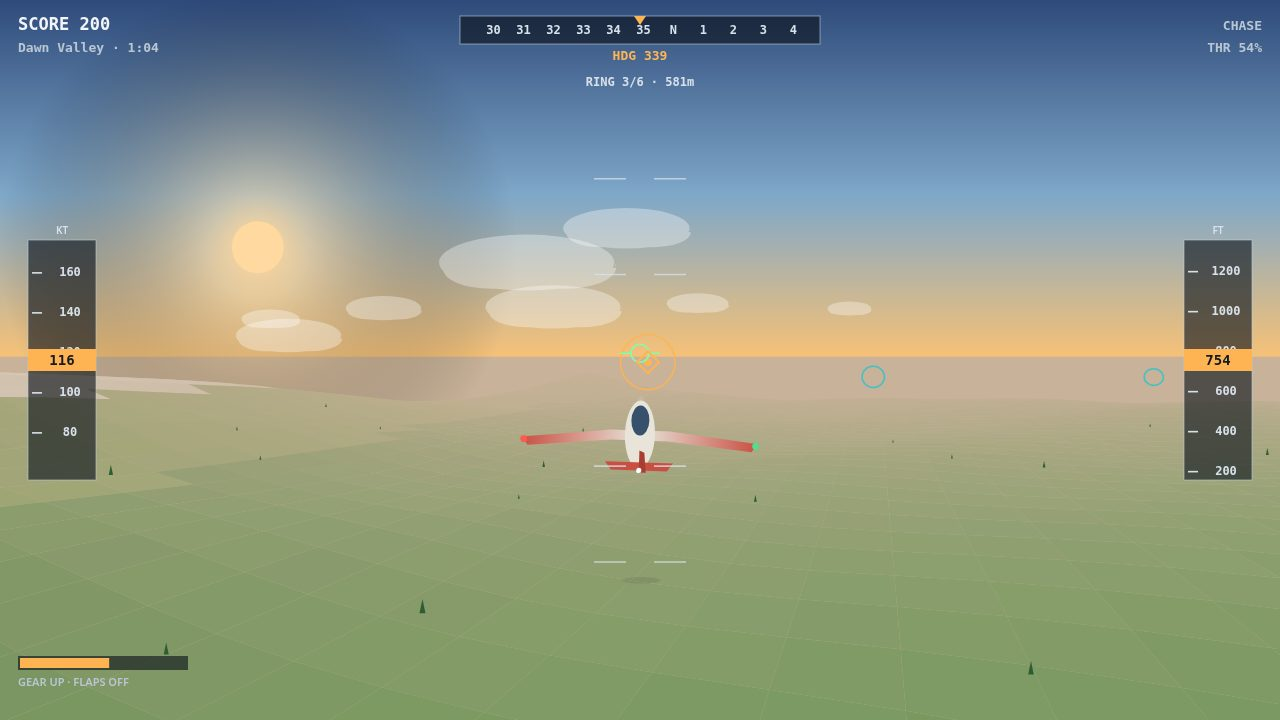
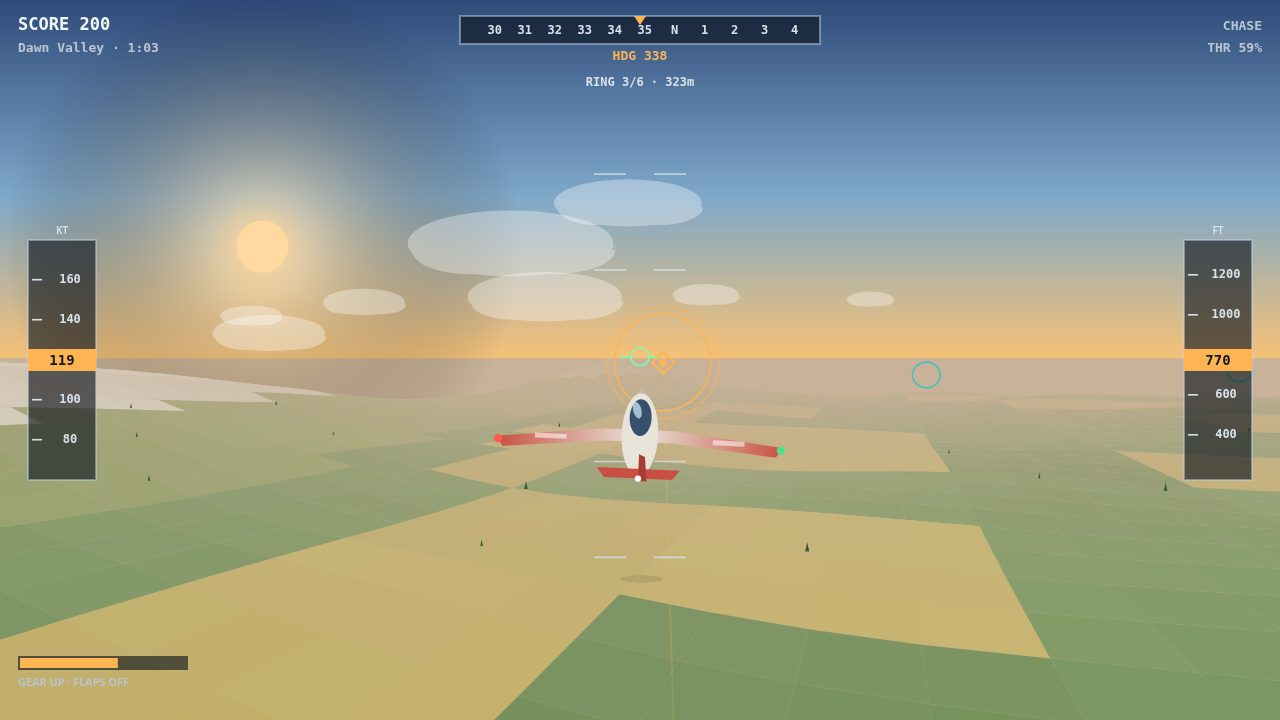
Polish visuals: farmland terrain, ring halo and pillar, closer screenshot staging

diff --git a/game/src/render.js b/game/src/render.js
@@ -129,14 +129,23 @@ function drawSky(ctx, pal, cam) {
   }
 }
 
-function terrainColor(pal, h, slope, depth) {
+function terrainColor(pal, h, slope, depth, gx = 0, gz = 0) {
   let base;
   if (h < WATER_LEVEL) base = pal.water;
   else if (h < WATER_LEVEL + 2.5) base = '#c2b280';
-  else if (h > 205) base = '#e8e4da';
+  else if (h > 185) base = '#eef0ea';
   else if (slope > 0.55) base = pal.rock;
   else base = h > 90 ? pal.grassHigh : pal.grass;
-  const lit = shade(base, clamp(1.06 - slope * 0.35, 0.62, 1.12));
+  // Farmland patches on the flat valley floor: 340 m blocks alternate
+  // between green and golden, so the ground reads as fields from the air.
+  let patch = 1;
+  if (h >= WATER_LEVEL && h < 70 && slope < 0.2) {
+    const bx = Math.floor(gx / 340), bz = Math.floor(gz / 340);
+    const hash = Math.abs(Math.sin(bx * 127.1 + bz * 311.7) * 43758.5453) % 1;
+    if (hash > 0.62) base = '#b3a355';
+    patch = 0.93 + hash * 0.14;
+  }
+  const lit = shade(base, clamp((1.06 - slope * 0.35) * patch, 0.6, 1.16));
   const fogT = clamp(1 - Math.exp(-depth / 1200), 0, 0.97);
   // mix() needs hex; convert the shaded rgb back through a canvas-free path:
   return fogT < 0.02 ? lit : mixRgb(lit, pal.fog, fogT);
@@ -171,11 +180,11 @@ function drawTerrain(ctx, world, cam) {
       if (ccx * cam.f.x + ccy * cam.f.y + ccz * cam.f.z < 2) continue;
       const depth = (p00.d + p11.d) / 2;
       const slope = Math.max(Math.abs(h10 - h00), Math.abs(h01 - h00)) / step;
-      quads.push({ pts: [p00, p10, p11, p01], depth, h: (h00 + h11) / 2, slope });
+      quads.push({ pts: [p00, p10, p11, p01], depth, h: (h00 + h11) / 2, slope, gx, gz });
     }
   }
   quads.sort((a, b) => b.depth - a.depth);
-  for (const q of quads) poly(ctx, q.pts, terrainColor(pal, q.h, q.slope, q.depth));
+  for (const q of quads) poly(ctx, q.pts, terrainColor(pal, q.h, q.slope, q.depth, q.gx, q.gz));
 }
 
 function drawRunway(ctx, world, cam) {
@@ -268,10 +277,25 @@ function drawRings(ctx, world, cam) {
     ctx.lineWidth = Math.max(1.2, 110 / pts[0].d);
     ctx.stroke();
     if (isNext) {
-      const c = project(cam, ring.x, ring.y, ring.z);
-      if (c) {
+      // A soft light pillar to the ground marks the target from far off,
+      // and a pulsing halo draws the eye to the ring itself.
+      const top = project(cam, ring.x, ring.y, ring.z);
+      const foot = project(cam, ring.x, terrainHeight(ring.x, ring.z), ring.z);
+      if (top && foot) {
         ctx.beginPath();
-        ctx.arc(c.x, c.y, 4, 0, Math.PI * 2);
+        ctx.moveTo(top.x, top.y);
+        ctx.lineTo(foot.x, foot.y);
+        ctx.strokeStyle = colour + '30';
+        ctx.lineWidth = Math.max(2, 300 / top.d);
+        ctx.stroke();
+        const pulse = 1 + 0.18 * Math.sin(world.time * 3.2);
+        ctx.beginPath();
+        ctx.arc(top.x, top.y, Math.max(3, (RING.radius * FOCAL / top.d) * pulse), 0, Math.PI * 2);
+        ctx.strokeStyle = colour + '66';
+        ctx.lineWidth = 2;
+        ctx.stroke();
+        ctx.beginPath();
+        ctx.arc(top.x, top.y, 4, 0, Math.PI * 2);
         ctx.fillStyle = colour;
         ctx.fill();
       }
@@ -336,6 +360,7 @@ function drawAircraft(ctx, world, lift = 0) {
   ctx.save();
   ctx.translate(cx, cy);
   ctx.rotate(p.roll * 0.85);
+  ctx.scale(1.22, 1.22);
   // Propeller blur.
   ctx.beginPath();
   ctx.ellipse(0, -6, 7, 30, 0, 0, Math.PI * 2);
@@ -352,6 +377,10 @@ function drawAircraft(ctx, world, lift = 0) {
   wingGrad.addColorStop(1, '#c94f42');
   ctx.fillStyle = wingGrad;
   ctx.fill();
+  // Wing stripes.
+  ctx.fillStyle = 'rgba(255,255,255,0.55)';
+  ctx.fillRect(-86, 4, 26, 4);
+  ctx.fillRect(60, 4, 26, 4);
   // Fuselage.
   ctx.beginPath();
   ctx.ellipse(0, 2, 15, 34, 0, 0, Math.PI * 2);
@@ -360,6 +389,10 @@ function drawAircraft(ctx, world, lift = 0) {
   ctx.beginPath();
   ctx.ellipse(0, -12, 9, 15, 0, 0, Math.PI * 2);
   ctx.fillStyle = '#37506b';
+  ctx.fill();
+  ctx.beginPath();
+  ctx.ellipse(-3, -18, 3.4, 7, -0.3, 0, Math.PI * 2);
+  ctx.fillStyle = 'rgba(200,225,245,0.75)';
   ctx.fill();
   // Tail.
   ctx.beginPath();

diff --git a/game/src/shots.js b/game/src/shots.js
@@ -38,8 +38,8 @@ export function stageShot(name, world) {
     // Mid-course in chase view: two rings banked, the third ahead over the hills.
     world.reset(world.seed, 0);
     const p = world.plane;
-    p.x = -640; p.y = 228; p.z = -2520;
-    p.heading = -0.34; p.pitch = 0.02; p.roll = -0.28;
+    p.x = -758; p.y = 234; p.z = -2810;
+    p.heading = -0.33; p.pitch = 0.02; p.roll = -0.26;
     p.speed = 57; p.throttle = 0.66; p.airborne = true; p.gear = false;
     world.started = true;
     world.rings[0].passed = true;
@@ -47,22 +47,22 @@ export function stageShot(name, world) {
     world.nextRing = 2;
     world.score = 200;
     world.time = 62;
-    flySeconds(world, 2.4, world.rings[2], 58);
+    flySeconds(world, 1.5, world.rings[2], 58);
     return { screen: SCREEN_PLAY, camera: CAM_CHASE };
   }
   if (name === 'cockpit') {
     // Final approach to runway 36 from the cockpit, instruments lit.
     world.reset(world.seed, 0);
     const p = world.plane;
-    p.x = 20; p.y = 122; p.z = 1180;
-    p.heading = 0.015; p.pitch = -0.04; p.roll = 0.03;
-    p.speed = 43; p.throttle = 0.32; p.vy = -2.5; p.airborne = true; p.gear = true; p.flaps = true;
+    p.x = 16; p.y = 84; p.z = 830;
+    p.heading = 0.012; p.pitch = -0.035; p.roll = 0.02;
+    p.speed = 42; p.throttle = 0.3; p.vy = -2.2; p.airborne = true; p.gear = true; p.flaps = true;
     world.started = true;
     for (const ring of world.rings) ring.passed = true;
     world.nextRing = world.rings.length;
     world.score = 600;
     world.time = 138;
-    flySeconds(world, 2.2, { x: 0, y: 58, z: -320 }, 42);
+    flySeconds(world, 1.5, { x: 0, y: 44, z: -320 }, 41);
     return { screen: SCREEN_PLAY, camera: CAM_COCKPIT };
   }
   if (name === 'end') {

diff --git a/game/src/world.js b/game/src/world.js
@@ -33,7 +33,7 @@ export function terrainHeight(x, z) {
     5 * Math.sin(x * 0.008 + z * 0.006);
   // Western ridge.
   const ridge = Math.max(0, 1 - Math.abs(x + 2350) / 1600);
-  h += ridge * ridge * 245 * (0.7 + 0.3 * Math.sin(z * 0.0016));
+  h += ridge * ridge * 290 * (0.7 + 0.3 * Math.sin(z * 0.0016));
   // Eastern lake basin.
   const lake = Math.max(0, 1 - Math.hypot(x - 2300, z + 3600) / 1700);
   h -= lake * lake * 46;
